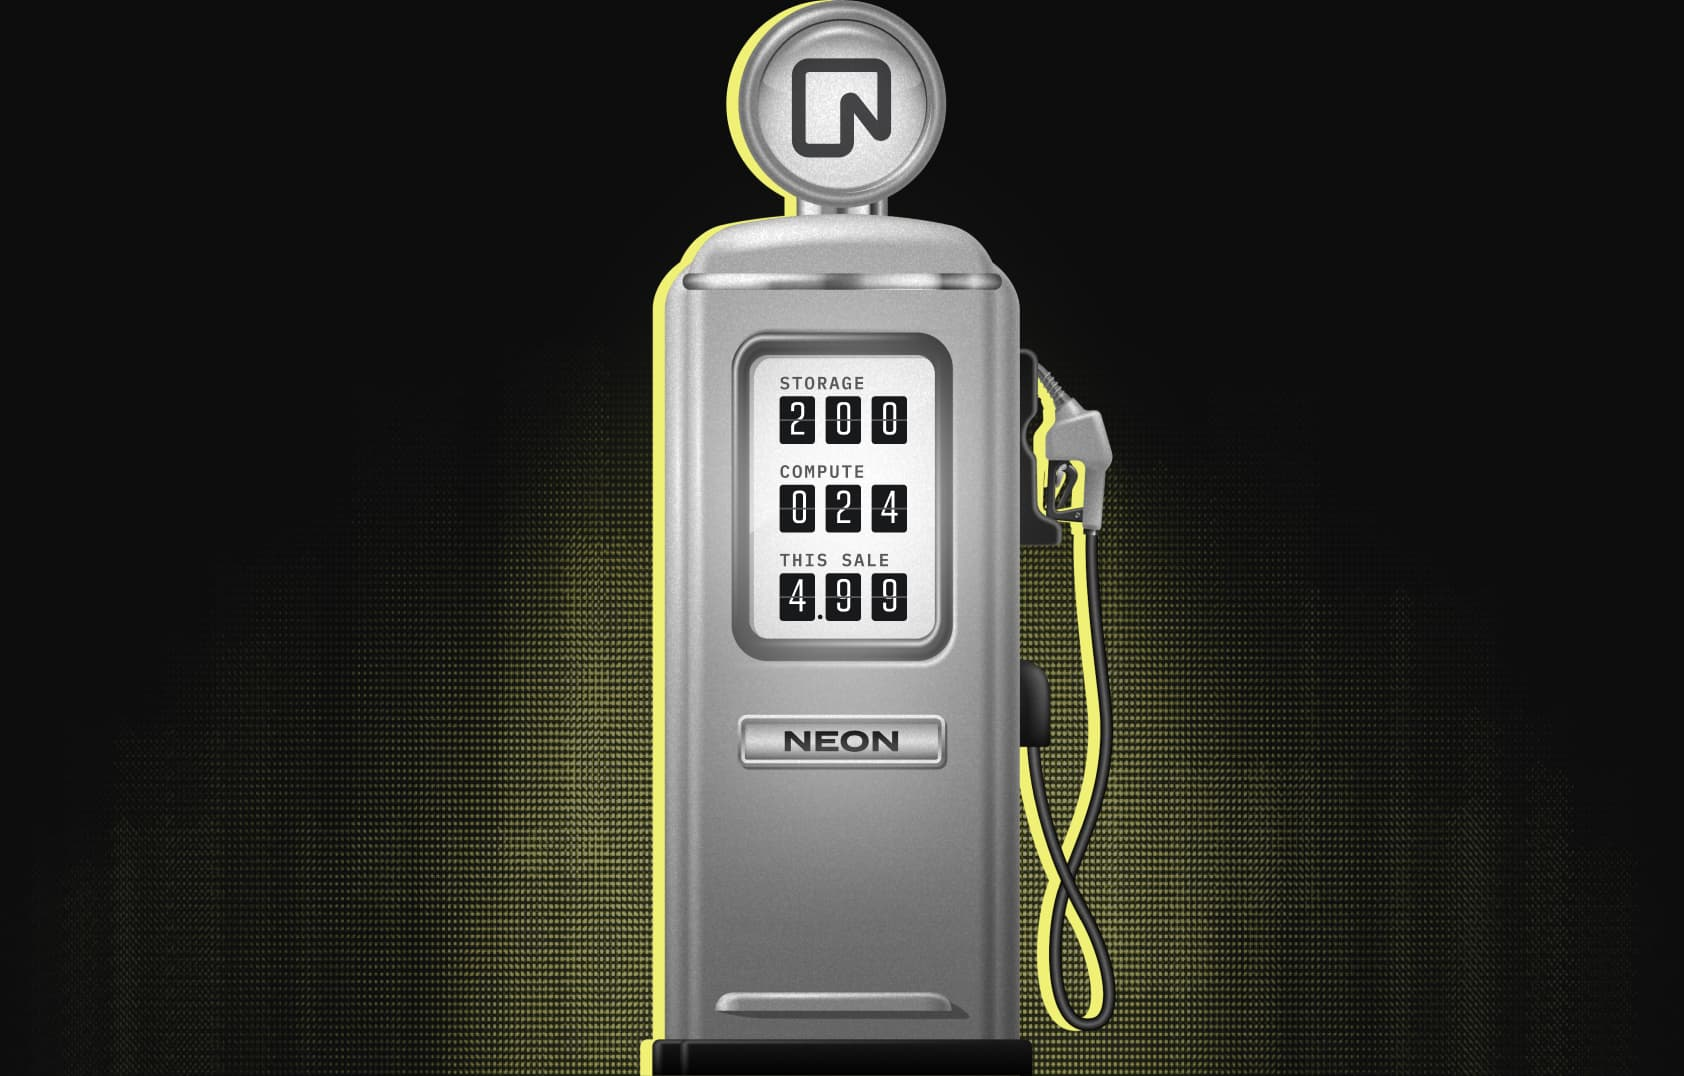
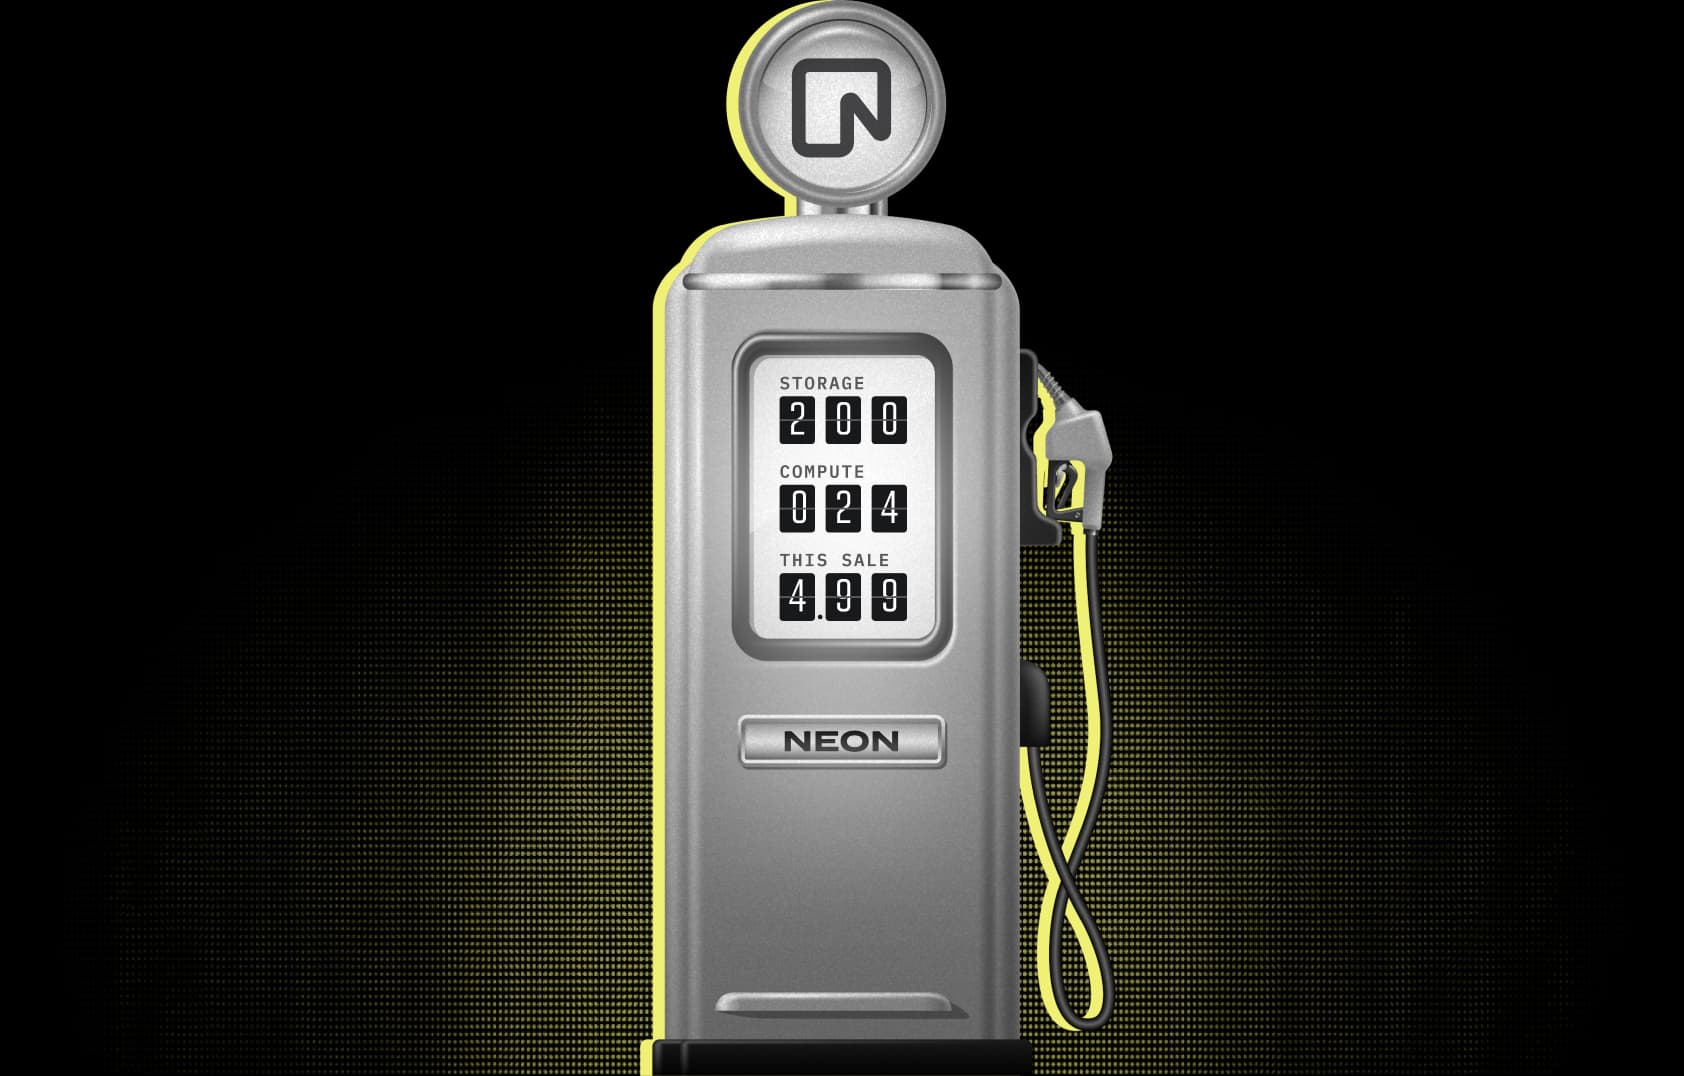
fix: cta colors

diff --git a/src/components/pages/pricing/cta/cta.jsx b/src/components/pages/pricing/cta/cta.jsx
@@ -37,7 +37,7 @@ const CTA = () => {
   }, [rive, isContentInView]);
 
   return (
-    <section className="safe-paddings bg-black-new pt-16">
+    <section className="safe-paddings bg-black-pure pt-16">
       <Container className="grid grid-cols-12 items-center gap-4" size="md">
         <div className="z-10 col-span-4 col-start-2 mb-24 xl:col-span-5 xl:col-start-1 lg:mb-12 md:col-span-full">
           <Heading className="whitespace-nowrap md:text-center" tag="h2" size="2sm">
